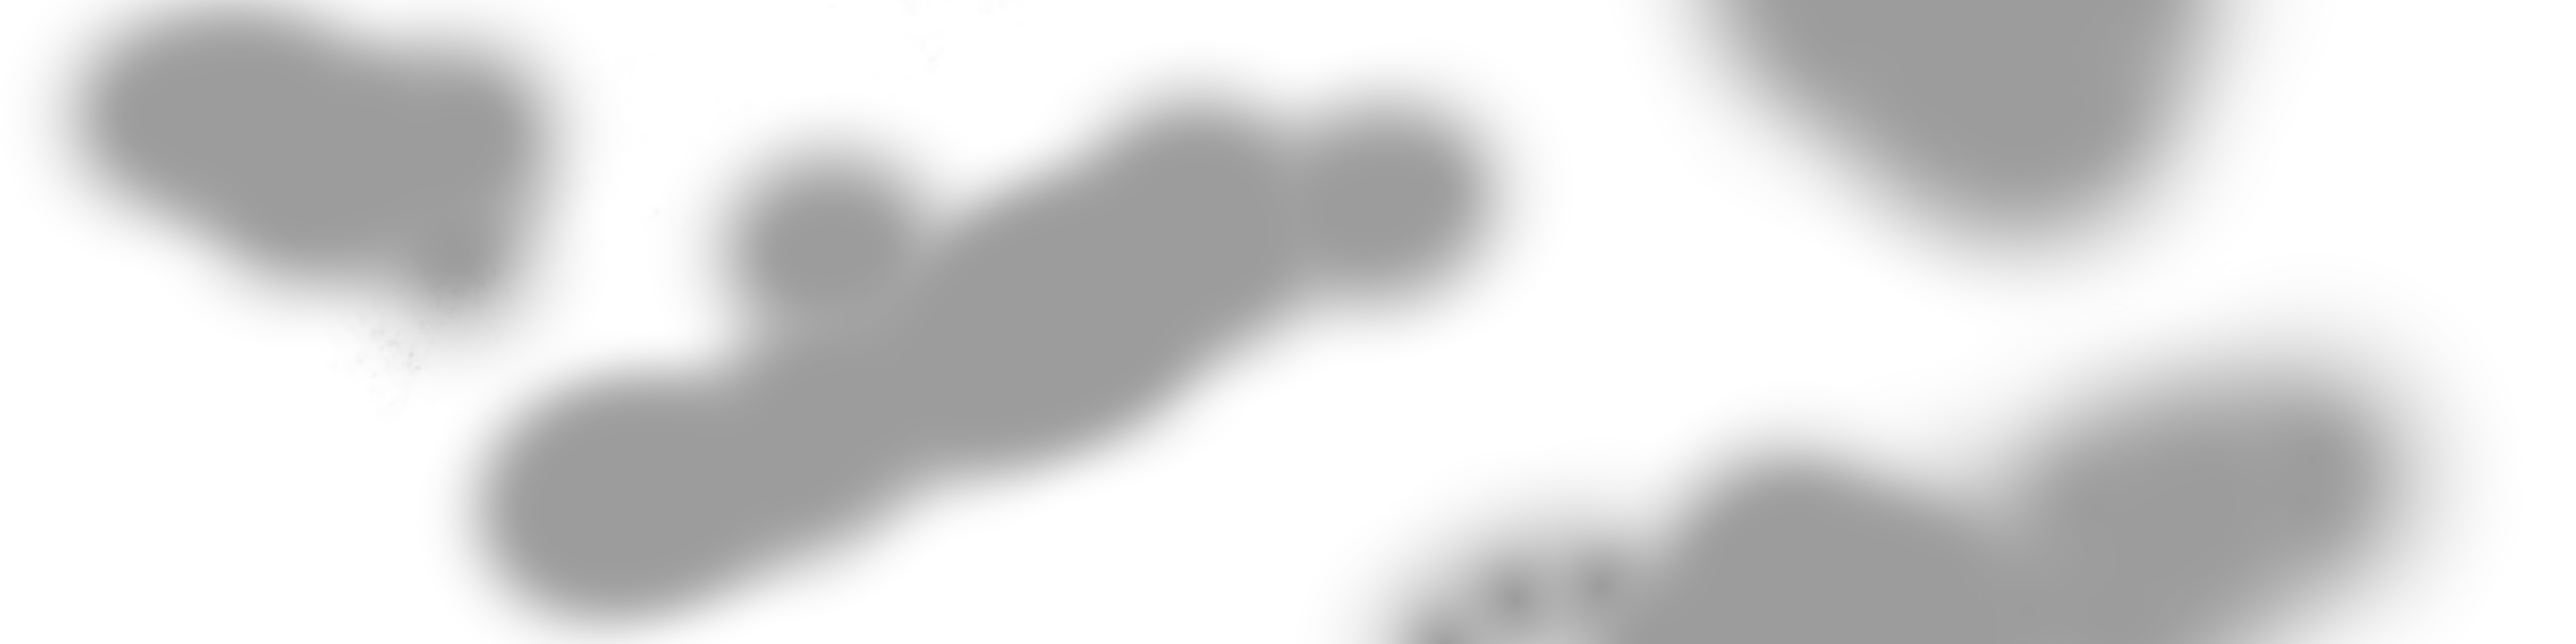
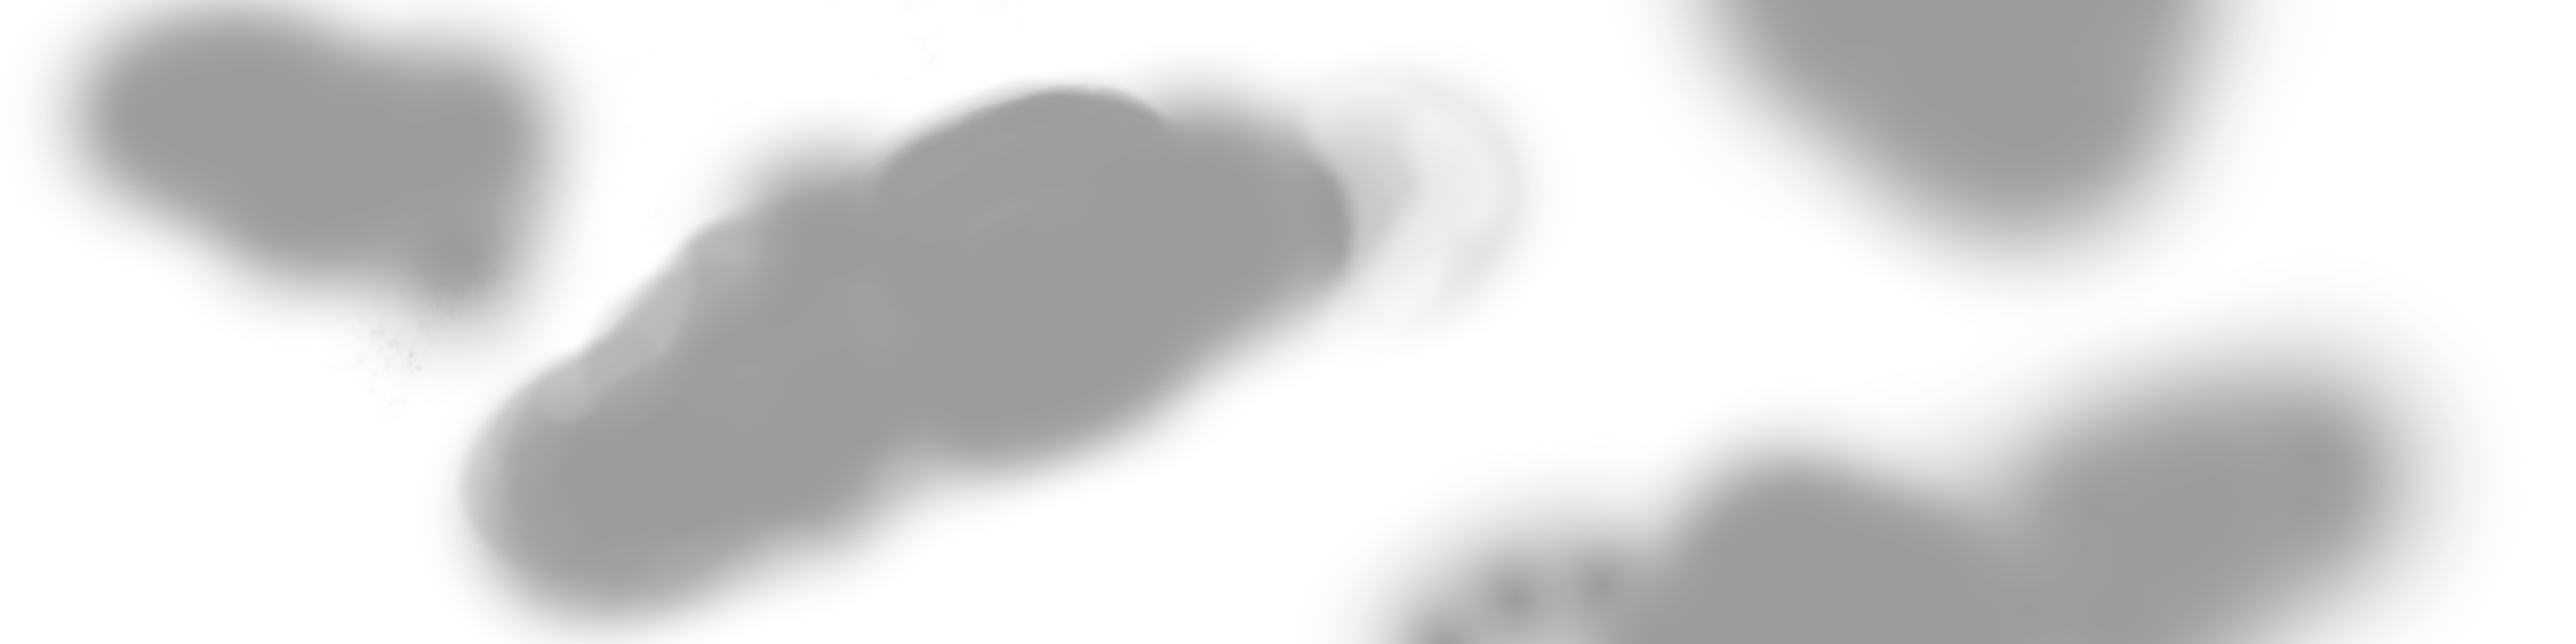
12 strums in total added, submission ready

Changed region(s): [[0.5, 0.1528, 0.5938, 0.4889], [0.3438, 0.1222, 0.4688, 0.3667], [0.1875, 0.3361, 0.3125, 0.6417]]

diff --git a/src/scenes/Play.js b/src/scenes/Play.js
@@ -23,14 +23,8 @@ class Play extends Phaser.Scene {
         this.load.image('Gradient', './assets/LightGradient.png');
         // | Dollar Bill Scoreboard
         this.load.image('ScoreBoard', './assets/ScoreBoard.png');
-
-        // --- LOAD SPRITESHEETS
-        // | explosion
-        this.load.spritesheet('explosion', 'assets/explosion.png', {frameWidth: 64, frameHeight: 32, startFrame: 0, endFrame: 9});
-
-        // --- NO LONGER NEEDED
-        // this.load.image('starfield', './assets/starfield.png');
-        // this.load.image('rocket', './assets/rocket.png');
+        // | Game Over Menu
+        this.load.image('GameOverImage', './assets/GameOver.png');
     }
     
     create() {
@@ -44,24 +38,17 @@ class Play extends Phaser.Scene {
         this.ped01 = new Spaceship(this, game.config.width + borderUISize*6, borderUISize*4, 'Ped1', 0, 30).setOrigin(0, 0);
         this.ped02 = new Spaceship(this, game.config.width + borderUISize*3, borderUISize*5 + borderPadding*2, 'Ped2', 0, 20).setOrigin(0, 0);
         this.ped03 = new Spaceship(this, game.config.width, borderUISize*6 + borderPadding*4, 'Ped3', 0, 10).setOrigin(0,0);
-        this.ped04 = new Spaceship(this, game.config.width + borderUISize*3, (borderUISize*5 + borderPadding*2) * (1.2), 'Ped4', 0, 20, true).setOrigin(0, 0);
+        this.ped04 = new Spaceship(this, game.config.width + borderUISize*3, (borderUISize*5 + borderPadding*2) * (1.2), 'Ped4', 0, 45, true).setOrigin(0, 0);
         // | Cloud Shadows
         this.clouds = this.add.tileSprite(0 , 0, config.width, config.height, 'Clouds').setOrigin(0, 0);
         // | Light gradient
         this.gradient = this.add.tileSprite(0 , 0, config.width, config.height, 'Gradient').setOrigin(0, 0);
         // | Dollar Bill Scoreboard
         this.scoreBoard = this.add.sprite(borderUISize * 3.5, borderUISize * 2, 'ScoreBoard').setOrigin(.5,.5);
-        
-        // --- ANIMATION CONFIG
-        this.anims.create({
-            key: 'explode',
-            frames: this.anims.generateFrameNumbers('explosion', { start: 0, end: 9, first: 0}),
-            frameRate: 30
-        });
 
         // --- SETTIMG UP SOUNDS
         // | Ambience
-        this.ambience = this.sound.add('sfx_ambience');
+        this.ambience = this.sound.add('sfx_ambience').setVolume(.4);
         this.ambience.setLoop(true);
         this.ambience.play();
 
@@ -125,8 +112,8 @@ class Play extends Phaser.Scene {
 
         // --- MANAGING SCORE DRAIN
         this.timeElapsed += delta / 1000;
-        let drainProgress = this.inverseLerp(this.timeElapsed, 10, 55);
-        this.scoreDrainRate = Phaser.Math.Linear(game.settings.initialDrainRate, 20, drainProgress);
+        let drainProgress = this.inverseLerp(this.timeElapsed, 10, 120); // Ramps from 10 seconds in to 90 seconds in
+        this.scoreDrainRate = Phaser.Math.Linear(game.settings.initialDrainRate, game.settings.drainRateMax, drainProgress);
 
         // --- COLLISION CHECKING
         if (this.checkCollision(this.p1Note, this.ped04) && !this.ped04.isHappy) {
@@ -174,7 +161,6 @@ class Play extends Phaser.Scene {
     }
 
     shipExplode(ship) {
-
         ship.makeHappy();       // reset ship position
         ship.alpha = 1;         // make ship visisble again
         // score add and repaint
@@ -190,9 +176,8 @@ class Play extends Phaser.Scene {
     gameOverScreen() {
         let gameOverConfig = {
             fontFamily: 'Impact',
-            fontSize: '32px',
-            backgroundColor: '#03fc13',
-            color: '#6f00ff',
+            fontSize: '84px',
+            color: '#f3cd00',
             align: 'center',
             padding: {
                 top: 5,
@@ -201,8 +186,9 @@ class Play extends Phaser.Scene {
             fixedWidth: 0
         }
         
-        this.add.text(game.config.width/2, game.config.height/2, 'GAME OVER', gameOverConfig).setOrigin(0.5);
-        this.add.text(game.config.width/2, game.config.height/2 + 64, 'Press (R) to Restart or ← for Menu', gameOverConfig).setOrigin(0.5);
+        // | Game Over Menu
+        this.gameOverMenu = this.add.image(0, 0, 'GameOverImage').setOrigin(0,0);
+        this.add.text(game.config.width / 2, (game.config.width / 2) - 175, Math.round(this.timeElapsed), gameOverConfig).setOrigin(0.5);
     }
 
     inverseLerp(point, a, b)

diff --git a/src/prefabs/Rocket.js b/src/prefabs/Rocket.js
@@ -7,7 +7,7 @@ class Rocket extends Phaser.GameObjects.Sprite {
         this.isFiring = false;                          // track rocket's firing status
         this.moveSpeed = 2;                             // pixels per frame
         this.currStrum = 1;
-        this.maxStrums = 3;
+        this.maxStrums = 12;
 
         // | Normal Strumming
         this.strumSounds = scene.sound.add('sfx_strumSounds');
@@ -17,8 +17,24 @@ class Rocket extends Phaser.GameObjects.Sprite {
         this.strumSounds.addMarker(strumMarker);                            // Strum 2
         strumMarker =       { name: 'strum3', start: 3.85, duration: 3.71};   
         this.strumSounds.addMarker(strumMarker);                            // Strum 3
-        strumMarker =       { name: 'strum4', start: 8.21, duration: 6.77};   
+        strumMarker =       { name: 'strum4', start: 8.21, duration: 2.83};   
         this.strumSounds.addMarker(strumMarker);                            // Strum 4
+        strumMarker =       { name: 'strum5', start: 11.105, duration: 3.81};   
+        this.strumSounds.addMarker(strumMarker);                            // Strum 5
+        strumMarker =       { name: 'strum6', start: 16.71, duration: 3.59};   
+        this.strumSounds.addMarker(strumMarker);                            // Strum 6
+        strumMarker =       { name: 'strum7', start: 20.83, duration: 5.02};   
+        this.strumSounds.addMarker(strumMarker);                            // Strum 7
+        strumMarker =       { name: 'strum8', start: 26.42, duration: 3.72};   
+        this.strumSounds.addMarker(strumMarker);                            // Strum 8
+        strumMarker =       { name: 'strum9', start: 30.49, duration: 2.74};   
+        this.strumSounds.addMarker(strumMarker);                            // Strum 9
+        strumMarker =       { name: 'strum10', start: 33.36, duration: 7.99};   
+        this.strumSounds.addMarker(strumMarker);                            // Strum 10
+        strumMarker =       { name: 'strum11', start: 41.72, duration: 6.40};   
+        this.strumSounds.addMarker(strumMarker);                            // Strum 11
+        strumMarker =       { name: 'strum12', start: 48.65, duration: 4.06};   
+        this.strumSounds.addMarker(strumMarker);                            // Strum 12
         
         // | Strum when another strum is playing
         this.altStrum = scene.sound.add('sfx_strumSounds');
@@ -80,6 +96,7 @@ class Rocket extends Phaser.GameObjects.Sprite {
             
             if (!this.strumSounds.isPlaying) {
                 this.strumSounds.play('strum' + this.currStrum);
+                console.log("played strum" + this.currStrum)
                 this.currStrum++;
             }
             else {

diff --git a/src/scenes/Menu.js b/src/scenes/Menu.js
@@ -19,7 +19,7 @@ class Menu extends Phaser.Scene {
         this.nextFrameNum = 2;
         // --- MENU AUDIO
         // || background ambience
-        this.ambience = this.sound.add('sfx_ambience').setVolume(0.5);
+        this.ambience = this.sound.add('sfx_ambience').setVolume(0.4);
         this.ambience.setLoop(true);
         // || Button sounds
         this.menuStrumSounds = this.sound.add('sfx_strumSounds');
@@ -49,7 +49,8 @@ class Menu extends Phaser.Scene {
                 game.settings = {
                     spaceshipSpeed: 3,
                     initialScore: 50,
-                    initialDrainRate: 1 
+                    initialDrainRate: 1, 
+                    drainRateMax: 15
                 }
                 this.menuStrumSounds.play('strum3');
                 this.ambience.stop();
@@ -60,7 +61,8 @@ class Menu extends Phaser.Scene {
                 game.settings = {
                     spaceshipSpeed: 4,
                     initialScore: 150,
-                    initialDrainRate: 8 
+                    initialDrainRate: 8,
+                    drainRateMax: 20 
                 }
                 this.menuStrumSounds.play('strum3');
                 this.ambience.stop();

diff --git a/src/prefabs/Spaceship.js b/src/prefabs/Spaceship.js
@@ -10,7 +10,7 @@ class Spaceship extends Phaser.GameObjects.Sprite {
         this.isHappy = false;
         this.isWaiting = true;
         this.happyDuration = 3.5 * 1000;
-        this.waitDuration = 5 * 1000;
+        this.waitDuration = 9 * 1000;
         //this.happyTimer;
         this.waitTimer = scene.time.delayedCall(this.waitDuration, () => { 
             this.isWaiting = false;
